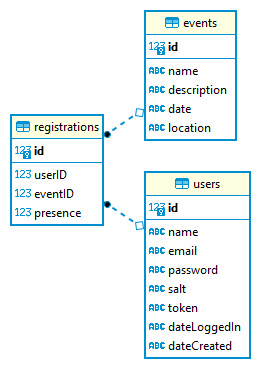
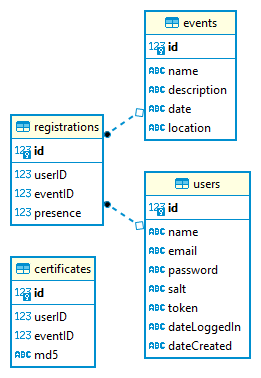
feat: add new erd

diff --git a/src/routers/certificates-router.ts b/src/routers/certificates-router.ts
@@ -3,6 +3,7 @@ import certificatesRepository from "../repositories/certificates-repository";
 import auth from "../middlewares/auth";
 import emailSender from "../email";
 import usersRepository from "../repositories/users-repository";
+import registrationsRepository from "../repositories/registrations-repository";
 
 const certificatesRouter = express.Router();
 
@@ -35,36 +36,56 @@ const certificatesRouter = express.Router();
 certificatesRouter.post("/certificates", auth, (req, res) => {
   const { userID, eventID } = req.body;
 
-  certificatesRepository.readUserCertificates(userID, (certificates) => {
-    if (certificates) {
-      const certificate = certificates.find(
-        (certificate) => certificate.eventID === eventID
+  function sendEmail(email: string, md5: string) {
+    emailSender.sendEmail(
+      email,
+      "Certificado gerado com sucesso",
+      "Seu certificado foi gerado com sucesso. Para validar seu certificado utilize o seguinte código: " +
+        md5
+    );
+  }
+
+  registrationsRepository.readUserRegistrations(userID, (registrations) => {
+    if (registrations) {
+      const registration = registrations.find(
+        (registration) =>
+          registration.eventID === eventID && registration.presence == true
       );
-      if (certificate) {
-        res.status(400).send(certificate);
-        return;
-      } else {
-        certificatesRepository.create(userID, eventID, (id) => {
-          if (id) {
+      if (registration) {
+        certificatesRepository.readUserCertificates(userID, (certificates) => {
+          if (certificates) {
             const certificate = certificates.find(
-              (certificate) => certificate.id === id
+              (certificate) => certificate.eventID === eventID
             );
-            usersRepository.getUserEmail(userID, (email) => {
-              if (email && certificate) {
-                emailSender.sendEmail(
-                  email,
-                  "Certificado gerado com sucesso",
-                  "Seu certificado foi gerado com sucesso. Para validar seu certificado utilize o seguinte " +
-                    "código: " +
-                    certificate.md5
-                );
-              }
-            });
-            res.status(201).send(certificate);
-          } else {
-            res.status(400).send('{ "message": "Error" }');
+            if (certificate) {
+              usersRepository.getUserEmail(userID, (email) => {
+                if (email && certificate) {
+                  sendEmail(email, certificate.md5);
+                }
+              });
+              res.status(200).send(certificate);
+              return;
+            } else {
+              certificatesRepository.create(userID, eventID, (id) => {
+                if (id) {
+                  const certificate = certificates.find(
+                    (certificate) => certificate.id === id
+                  );
+                  usersRepository.getUserEmail(userID, (email) => {
+                    if (email && certificate) {
+                      sendEmail(email, certificate.md5);
+                    }
+                  });
+                  res.status(201).send(certificate);
+                } else {
+                  res.status(400).send('{ "message": "Error" }');
+                }
+              });
+            }
           }
         });
+      } else {
+        res.status(400).send('{ "message": "User was not present" }');
       }
     }
   });

diff --git a/frontend/pages/registrations.html b/frontend/pages/registrations.html
@@ -18,6 +18,7 @@
             <th>Local</th>
             <th></th>
             <th></th>
+            <p id="error"></p>
         </tr>
     </table>
     <button onclick="window.location.href = '../index.html'">Voltar</button>
@@ -40,14 +41,18 @@
                 eventID: eventID,
             })
         })
-            .then(response => response.json())
-            .then(data => {
-                console.log(data);
-                if (data.length = 0) {
-                    alert(`Certificado gerado com sucesso
-                           Código: ${data.md5}`);
-                } else {
+            .then(response => {
+                if (response.status >= 400) {
                     alert('Erro ao gerar certificado');
+                    document.getElementById('error').innerHTML = 'Erro ao gerar certificado';
+                }
+                return response.json();
+            })
+            .then(data => {
+                if (data.md5) {
+                    alert(`Certificado gerado com sucesso
+                            Código: ${data.md5}`);
+                    document.getElementById('error').innerHTML = data.md5;
                 }
             })
     }
